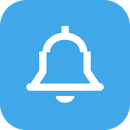
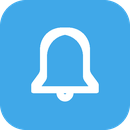
Add LG Quick Settings tile; LG-style gear and bell
LG Quick Settings opens com.webos.app.quicksettings (outlined gear on
dark grey). LG Settings now uses a solid gear and LG Notifications a bell
drawn after LG's own icons.

Claude-Session: https://claude.ai/code/session_01GGffTuPnQ7r8XtEgn8LE92

Changed region(s): [[0.1846, 0.1846, 0.8, 0.8], [0.2769, 0.4, 0.3077, 0.5846]]

diff --git a/scripts/make-icons.py b/scripts/make-icons.py
@@ -1,6 +1,6 @@
 #!/usr/bin/env python3
-"""Draw the tile icons for all five apps: solid yellow houses for Home Helper,
-outlined white symbols on coloured tiles for the three LG shortcuts.
+"""Draw the tile icons for all six apps: solid yellow houses for Home Helper,
+white symbols on coloured tiles for the four LG shortcuts.
 
   python3 scripts/make-icons.py
 
@@ -10,7 +10,7 @@ Writes icon.png (80 px) and largeIcon.png (130 px) into each app folder, and the
 import math
 from pathlib import Path
 
-from PIL import Image, ImageDraw, ImageFont
+from PIL import Image, ImageChops, ImageDraw, ImageFilter, ImageFont
 
 ROOT = Path(__file__).resolve().parents[1]
 SCALE = 4  # draw large, then shrink for smooth edges
@@ -21,6 +21,7 @@ WHITE = (255, 255, 255)
 BLUE = (64, 168, 232)
 PINK = (236, 72, 140)
 GREY = (118, 124, 134)
+DARK_GREY = (72, 76, 84)
 
 
 def canvas(size, background):
@@ -43,49 +44,55 @@ def outline(d, points, colour, width):
         d.ellipse([x - r, y - r, x + r, y + r], fill=colour)
 
 
-def house(d, W, colour, door=True):
-    w = stroke(W)
-    left, right, top, eave, bottom = W * 0.24, W * 0.76, W * 0.22, W * 0.46, W * 0.78
-    outline(d, [(W / 2, top), (right + W * 0.04, eave), (right, eave), (right, bottom),
-                (left, bottom), (left, eave), (left - W * 0.04, eave)], colour, w)
-    if door:
-        dl, dr, dt = W * 0.44, W * 0.56, W * 0.6
-        d.line([(dl, bottom), (dl, dt), (dr, dt), (dr, bottom)], fill=colour, width=w, joint='curve')
+def smooth(mask, r):
+    """Round every corner of a 1-bit shape (blur, then threshold)."""
+    return mask.filter(ImageFilter.GaussianBlur(r)).point(lambda v: 255 if v >= 128 else 0)
 
 
-def gear(d, W, colour, cx, cy, radius, width=None):
-    w = width or stroke(W)
-    teeth = 8
-    r_out, r_in = radius, radius * 0.76
-    pts = []
-    for i in range(teeth * 2):
-        r = r_out if i % 2 == 0 else r_in
-        for k in (-0.3, 0.3):  # flat tooth tops
-            a = (i + 0.5 + k) * math.pi / teeth
-            pts.append((cx + r * math.cos(a), cy + r * math.sin(a)))
-    outline(d, pts, colour, w)
-    h = radius * 0.34
-    d.ellipse([cx - h, cy - h, cx + h, cy + h], outline=colour, width=w)
+def odd(n):
+    n = max(3, int(round(n)))
+    return n if n % 2 else n + 1
 
 
-def bell(d, W, colour):
-    w = stroke(W)
+def outline_of(mask, width):
+    """A stroke centred on the edge of a shape."""
+    grow = mask.filter(ImageFilter.MaxFilter(odd(width)))
+    shrink = mask.filter(ImageFilter.MinFilter(odd(width)))
+    return ImageChops.subtract(grow, shrink)
+
+
+def paint(im, mask, colour):
+    im.paste(Image.new('RGBA', im.size, colour + (255,)), (0, 0), mask)
+
+
+def lg_gear_mask(W):
+    """LG's settings gear: 6 short, wide, rounded teeth."""
+    m = Image.new('L', (W, W), 0)
+    d = ImageDraw.Draw(m)
     c = W / 2
-    top, shoulder, rim = W * 0.25, W * 0.4, W * 0.67
-    # dome
-    d.arc([c - W * 0.17, top, c + W * 0.17, top + W * 0.3], 180, 360, fill=colour, width=w)
-    # sides flaring to the rim
-    d.line([(c - W * 0.17, shoulder - W * 0.002), (c - W * 0.17, W * 0.55), (c - W * 0.25, rim)],
-           fill=colour, width=w, joint='curve')
-    d.line([(c + W * 0.17, shoulder - W * 0.002), (c + W * 0.17, W * 0.55), (c + W * 0.25, rim)],
-           fill=colour, width=w, joint='curve')
-    d.line([(c - W * 0.27, rim), (c + W * 0.27, rim)], fill=colour, width=w)
-    r = w / 2
-    for x in (c - W * 0.27, c + W * 0.27):
-        d.ellipse([x - r, rim - r, x + r, rim + r], fill=colour)
-    # knob and clapper
-    d.line([(c, top - W * 0.05), (c, top)], fill=colour, width=w)
-    d.arc([c - W * 0.07, rim + W * 0.02, c + W * 0.07, rim + W * 0.12], 0, 180, fill=colour, width=w)
+    body, tip, tooth_w = W * 0.2, W * 0.285, W * 0.17
+    d.ellipse([c - body, c - body, c + body, c + body], fill=255)
+    for i in range(6):
+        a = math.radians(i * 60 - 90)
+        ux, uy = math.cos(a), math.sin(a)
+        px, py = -uy, ux
+        hw = tooth_w / 2
+        d.polygon([(c + ux * r + px * t, c + uy * r + py * t) for r, t in
+                   ((body * 0.7, -hw), (tip, -hw * 0.9), (tip, hw * 0.9), (body * 0.7, hw))], fill=255)
+    return smooth(m, W * 0.018)
+
+
+def lg_bell_mask(W):
+    """LG's notifications bell: round dome, straight sides flaring to a rim."""
+    m = Image.new('L', (W, W), 0)
+    d = ImageDraw.Draw(m)
+    c = W / 2
+    r, top, side_bottom, rim = W * 0.165, W * 0.24, W * 0.6, W * 0.69
+    d.ellipse([c - r, top, c + r, top + 2 * r], fill=255)
+    d.rectangle([c - r, top + r, c + r, side_bottom], fill=255)
+    d.polygon([(c - r, side_bottom - W * 0.02), (c + r, side_bottom - W * 0.02),
+               (c + r + W * 0.08, rim), (c - r - W * 0.08, rim)], fill=255)
+    return smooth(m, W * 0.012), rim
 
 
 def live_tv(d, W, colour, background):
@@ -153,14 +160,32 @@ def home_helper_settings(size):
 
 
 def lg_settings(size):
+    """Solid gear with the centre cut out."""
     im, d, W = canvas(size, GREY)
-    gear(d, W, WHITE, W / 2, W / 2, W * 0.27)
+    hole = Image.new('L', (W, W), 0)
+    h = W * 0.085
+    ImageDraw.Draw(hole).ellipse([W / 2 - h, W / 2 - h, W / 2 + h, W / 2 + h], fill=255)
+    paint(im, ImageChops.subtract(lg_gear_mask(W), hole), WHITE)
+    return im
+
+
+def lg_quick_settings(size):
+    """Outlined gear with a ring in the middle."""
+    im, d, W = canvas(size, DARK_GREY)
+    w = stroke(W)
+    paint(im, outline_of(lg_gear_mask(W), w), WHITE)
+    h = W * 0.095
+    d.ellipse([W / 2 - h, W / 2 - h, W / 2 + h, W / 2 + h], outline=WHITE + (255,), width=w)
     return im
 
 
 def lg_notifications(size):
     im, d, W = canvas(size, BLUE)
-    bell(d, W, WHITE)
+    w = stroke(W)
+    bell, rim = lg_bell_mask(W)
+    paint(im, outline_of(bell, w), WHITE)
+    r, cy = W * 0.065, rim + w * 0.45  # clapper
+    d.arc([W / 2 - r, cy - r, W / 2 + r, cy + r], 0, 180, fill=WHITE + (255,), width=w)
     return im
 
 
@@ -180,6 +205,7 @@ def main():
     save(home_helper, 'app')
     save(home_helper_settings, 'settings')
     save(lg_settings, 'shortcuts/lgsettings')
+    save(lg_quick_settings, 'shortcuts/lgquicksettings')
     save(lg_notifications, 'shortcuts/lgnotifications')
     save(lg_live_tv, 'shortcuts/lglivetv')
     home_helper(256).resize((256, 256), Image.LANCZOS).save(ROOT / 'docs/icon.png', optimize=True)

diff --git a/scripts/build.py b/scripts/build.py
@@ -157,6 +157,7 @@ def compile_native(work):
 # webOS accepts is used: the ids differ between webOS versions.
 SHORTCUTS = {
     'lgsettings': ['com.palm.app.settings', 'com.webos.app.settings'],
+    'lgquicksettings': ['com.webos.app.quicksettings'],
     'lgnotifications': ['com.webos.app.notificationcenter'],
     'lglivetv': ['com.webos.app.livetv'],
 }

diff --git a/README.md b/README.md
@@ -170,16 +170,17 @@ python3 scripts/build.py --retarget dist/io.github.theogal.homehelper_1.0.0_arm.
 A choice made on the TV always wins over the packaged default (including
 choosing LG Home). With neither, Home goes to LG Home.
 
-## Optional extra tiles: LG Settings, LG Notifications, Live TV
+## Optional extra tiles: LG Settings, LG Quick Settings, LG Notifications, Live TV
 
-These three are **optional** and separate from Home Helper. Use them only if
+These four are **optional** and separate from Home Helper. Use them only if
 your preferred launcher doesn't offer a way to open these LG apps itself.
 Each is its own package: install any, all or none. They work with or without
 Home Helper.
 
 | Package | Tile | Opens |
 | --- | --- | --- |
-| `io.github.theogal.lgsettings_1.0.0_arm.ipk` | **LG Settings** (gear) | LG's settings, the same as the gear in LG Home |
+| `io.github.theogal.lgsettings_1.0.0_arm.ipk` | **LG Settings** (solid gear) | LG's settings, the same as the gear in LG Home |
+| `io.github.theogal.lgquicksettings_1.0.0_arm.ipk` | **LG Quick Settings** (outlined gear) | LG's Quick Settings panel, the same as a short press of the remote's settings button |
 | `io.github.theogal.lgnotifications_1.0.0_arm.ipk` | **LG Notifications** (bell) | LG's notifications |
 | `io.github.theogal.lglivetv_1.0.0_arm.ipk` | **Live TV** (TV) | The TV tuner (Live TV source) |
 
@@ -187,8 +188,9 @@ Install them the same way as Home Helper, then add the tiles to your launcher
 like any other app. A tile has no window of its own: it asks webOS to open the
 LG app and exits, so nothing keeps running. The app ids differ between webOS
 versions; LG Settings tries `com.palm.app.settings`, then
-`com.webos.app.settings`. LG Notifications opens
-`com.webos.app.notificationcenter` and Live TV opens `com.webos.app.livetv`.
+`com.webos.app.settings`. LG Quick Settings opens `com.webos.app.quicksettings`,
+LG Notifications opens `com.webos.app.notificationcenter` and Live TV opens
+`com.webos.app.livetv`.
 
 ## Credits
 
